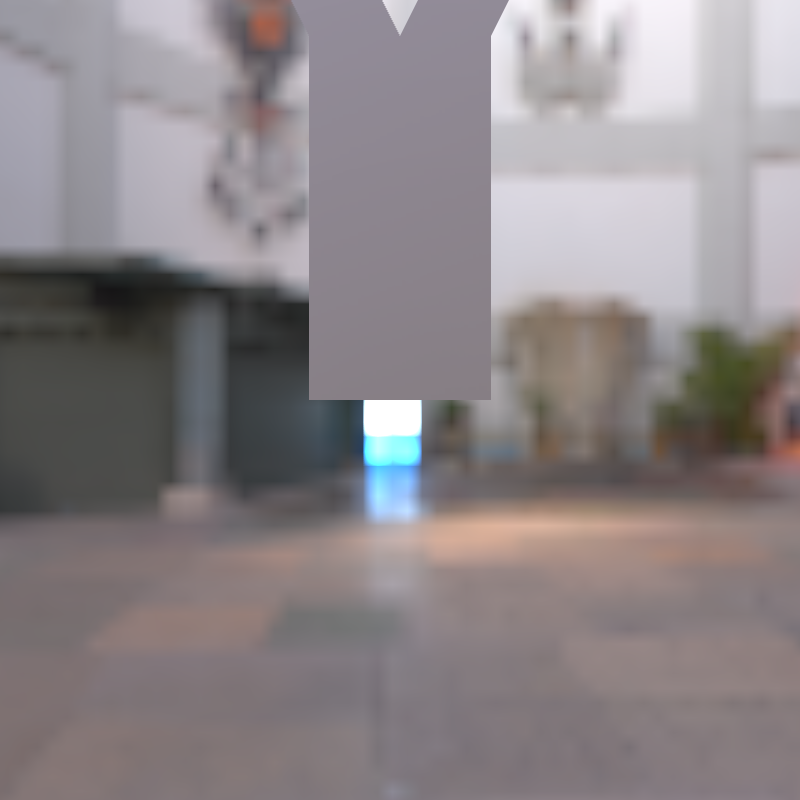
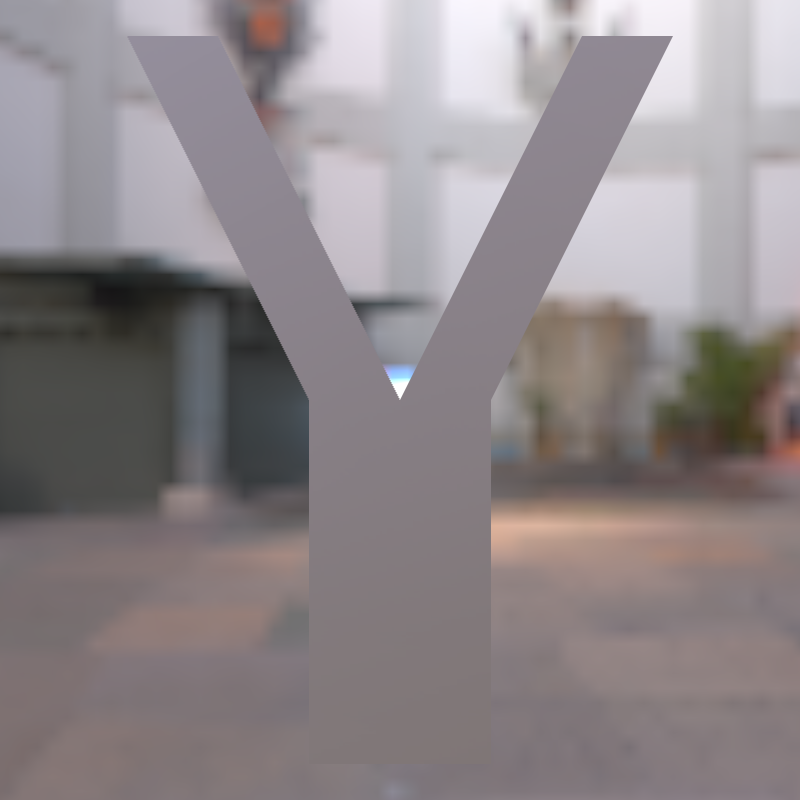
Center SkinE on the origin

Changed region(s): [[0.2812, 0.0, 0.8438, 0.75], [0.1562, 0.0312, 0.3438, 0.25]]

diff --git a/Source/ModelGroup_SkinE.cs b/Source/ModelGroup_SkinE.cs
@@ -23,27 +23,27 @@ namespace AssetGenerator
                                 Positions = new List<Vector3>()
                                 {
                                     // Trunk
+                                    new Vector3(-0.125f, 0.0f,-0.50f),
+                                    new Vector3( 0.125f, 0.0f,-0.50f),
+                                    new Vector3(-0.125f, 0.0f,-0.25f),
+                                    new Vector3( 0.125f, 0.0f,-0.25f),
                                     new Vector3(-0.125f, 0.0f, 0.00f),
                                     new Vector3( 0.125f, 0.0f, 0.00f),
-                                    new Vector3(-0.125f, 0.0f, 0.25f),
-                                    new Vector3( 0.125f, 0.0f, 0.25f),
-                                    new Vector3(-0.125f, 0.0f, 0.50f),
-                                    new Vector3( 0.125f, 0.0f, 0.50f),
 
                                     // Root of V split
-                                    new Vector3( 0.0f, 0.0f, 0.50f),
+                                    new Vector3( 0.0f, 0.0f, 0.0f),
 
                                     // Left branch
-                                    new Vector3(-0.250f, 0.0f, 0.75f),
-                                    new Vector3(-0.125f, 0.0f, 0.75f),
-                                    new Vector3(-0.375f, 0.0f, 1.00f),
-                                    new Vector3(-0.250f, 0.0f, 1.00f),
+                                    new Vector3(-0.250f, 0.0f, 0.25f),
+                                    new Vector3(-0.125f, 0.0f, 0.25f),
+                                    new Vector3(-0.375f, 0.0f, 0.50f),
+                                    new Vector3(-0.250f, 0.0f, 0.50f),
 
                                     // Right branch
-                                    new Vector3( 0.125f, 0.0f, 0.75f),
-                                    new Vector3( 0.250f, 0.0f, 0.75f),
-                                    new Vector3( 0.250f, 0.0f, 1.00f),
-                                    new Vector3( 0.375f, 0.0f, 1.00f),
+                                    new Vector3( 0.125f, 0.0f, 0.25f),
+                                    new Vector3( 0.250f, 0.0f, 0.25f),
+                                    new Vector3( 0.250f, 0.0f, 0.50f),
+                                    new Vector3( 0.375f, 0.0f, 0.50f),
                                 },
                                 Indices = new List<int>
                                 {
@@ -91,11 +91,11 @@ namespace AssetGenerator
                 var translationVectorJoint3 = new Vector3(0.1875f, 0.0f, 0.25f);
                 var translationVectorJoint2 = new Vector3(-0.1875f, 0.0f, 0.25f);
                 var translationVectorJoint1 = new Vector3(0.0f, 0.0f, 0.5f);
-                var matrixJoint0 = rotation;
-                Matrix4x4 invertedTranslationMatrixJoint3 = Matrix4x4.CreateTranslation(-translationVectorJoint1 + -translationVectorJoint3);
-                Matrix4x4 invertedTranslationMatrixJoint2 = Matrix4x4.CreateTranslation(-translationVectorJoint1 + -translationVectorJoint2);
-                Matrix4x4 invertedTranslationMatrixJoint1 = Matrix4x4.CreateTranslation(-translationVectorJoint1);
+                var translationVectorJoint0 = new Vector3(0.0f, -0.5f, 0.0f);
+                Matrix4x4 invertedTranslationMatrixJoint3 = Matrix4x4.CreateTranslation(-translationVectorJoint3);
+                Matrix4x4 invertedTranslationMatrixJoint2 = Matrix4x4.CreateTranslation(-translationVectorJoint2);
                 Matrix4x4 invertedJoint0;
+                var matrixJoint0 = Matrix4x4.Multiply(rotation, Matrix4x4.CreateTranslation(new Vector3(0, 0.0f, -0.5f)));
                 Matrix4x4.Invert(matrixJoint0, out invertedJoint0);
 
                 var nodeJoint3 = new Runtime.Node
@@ -122,6 +122,7 @@ namespace AssetGenerator
                 {
                     Name = "joint0",
                     Rotation = Quaternion.CreateFromRotationMatrix(rotation),
+                    Translation = translationVectorJoint0,
                     Children = new[]
                     {
                         nodeJoint1
@@ -140,7 +141,7 @@ namespace AssetGenerator
                 );
                 var joint1 = new Runtime.SkinJoint
                 (
-                    inverseBindMatrix: invertedTranslationMatrixJoint1,
+                    inverseBindMatrix: Matrix4x4.Identity,
                     node: nodeJoint1
                 );
                 var joint0 = new Runtime.SkinJoint
